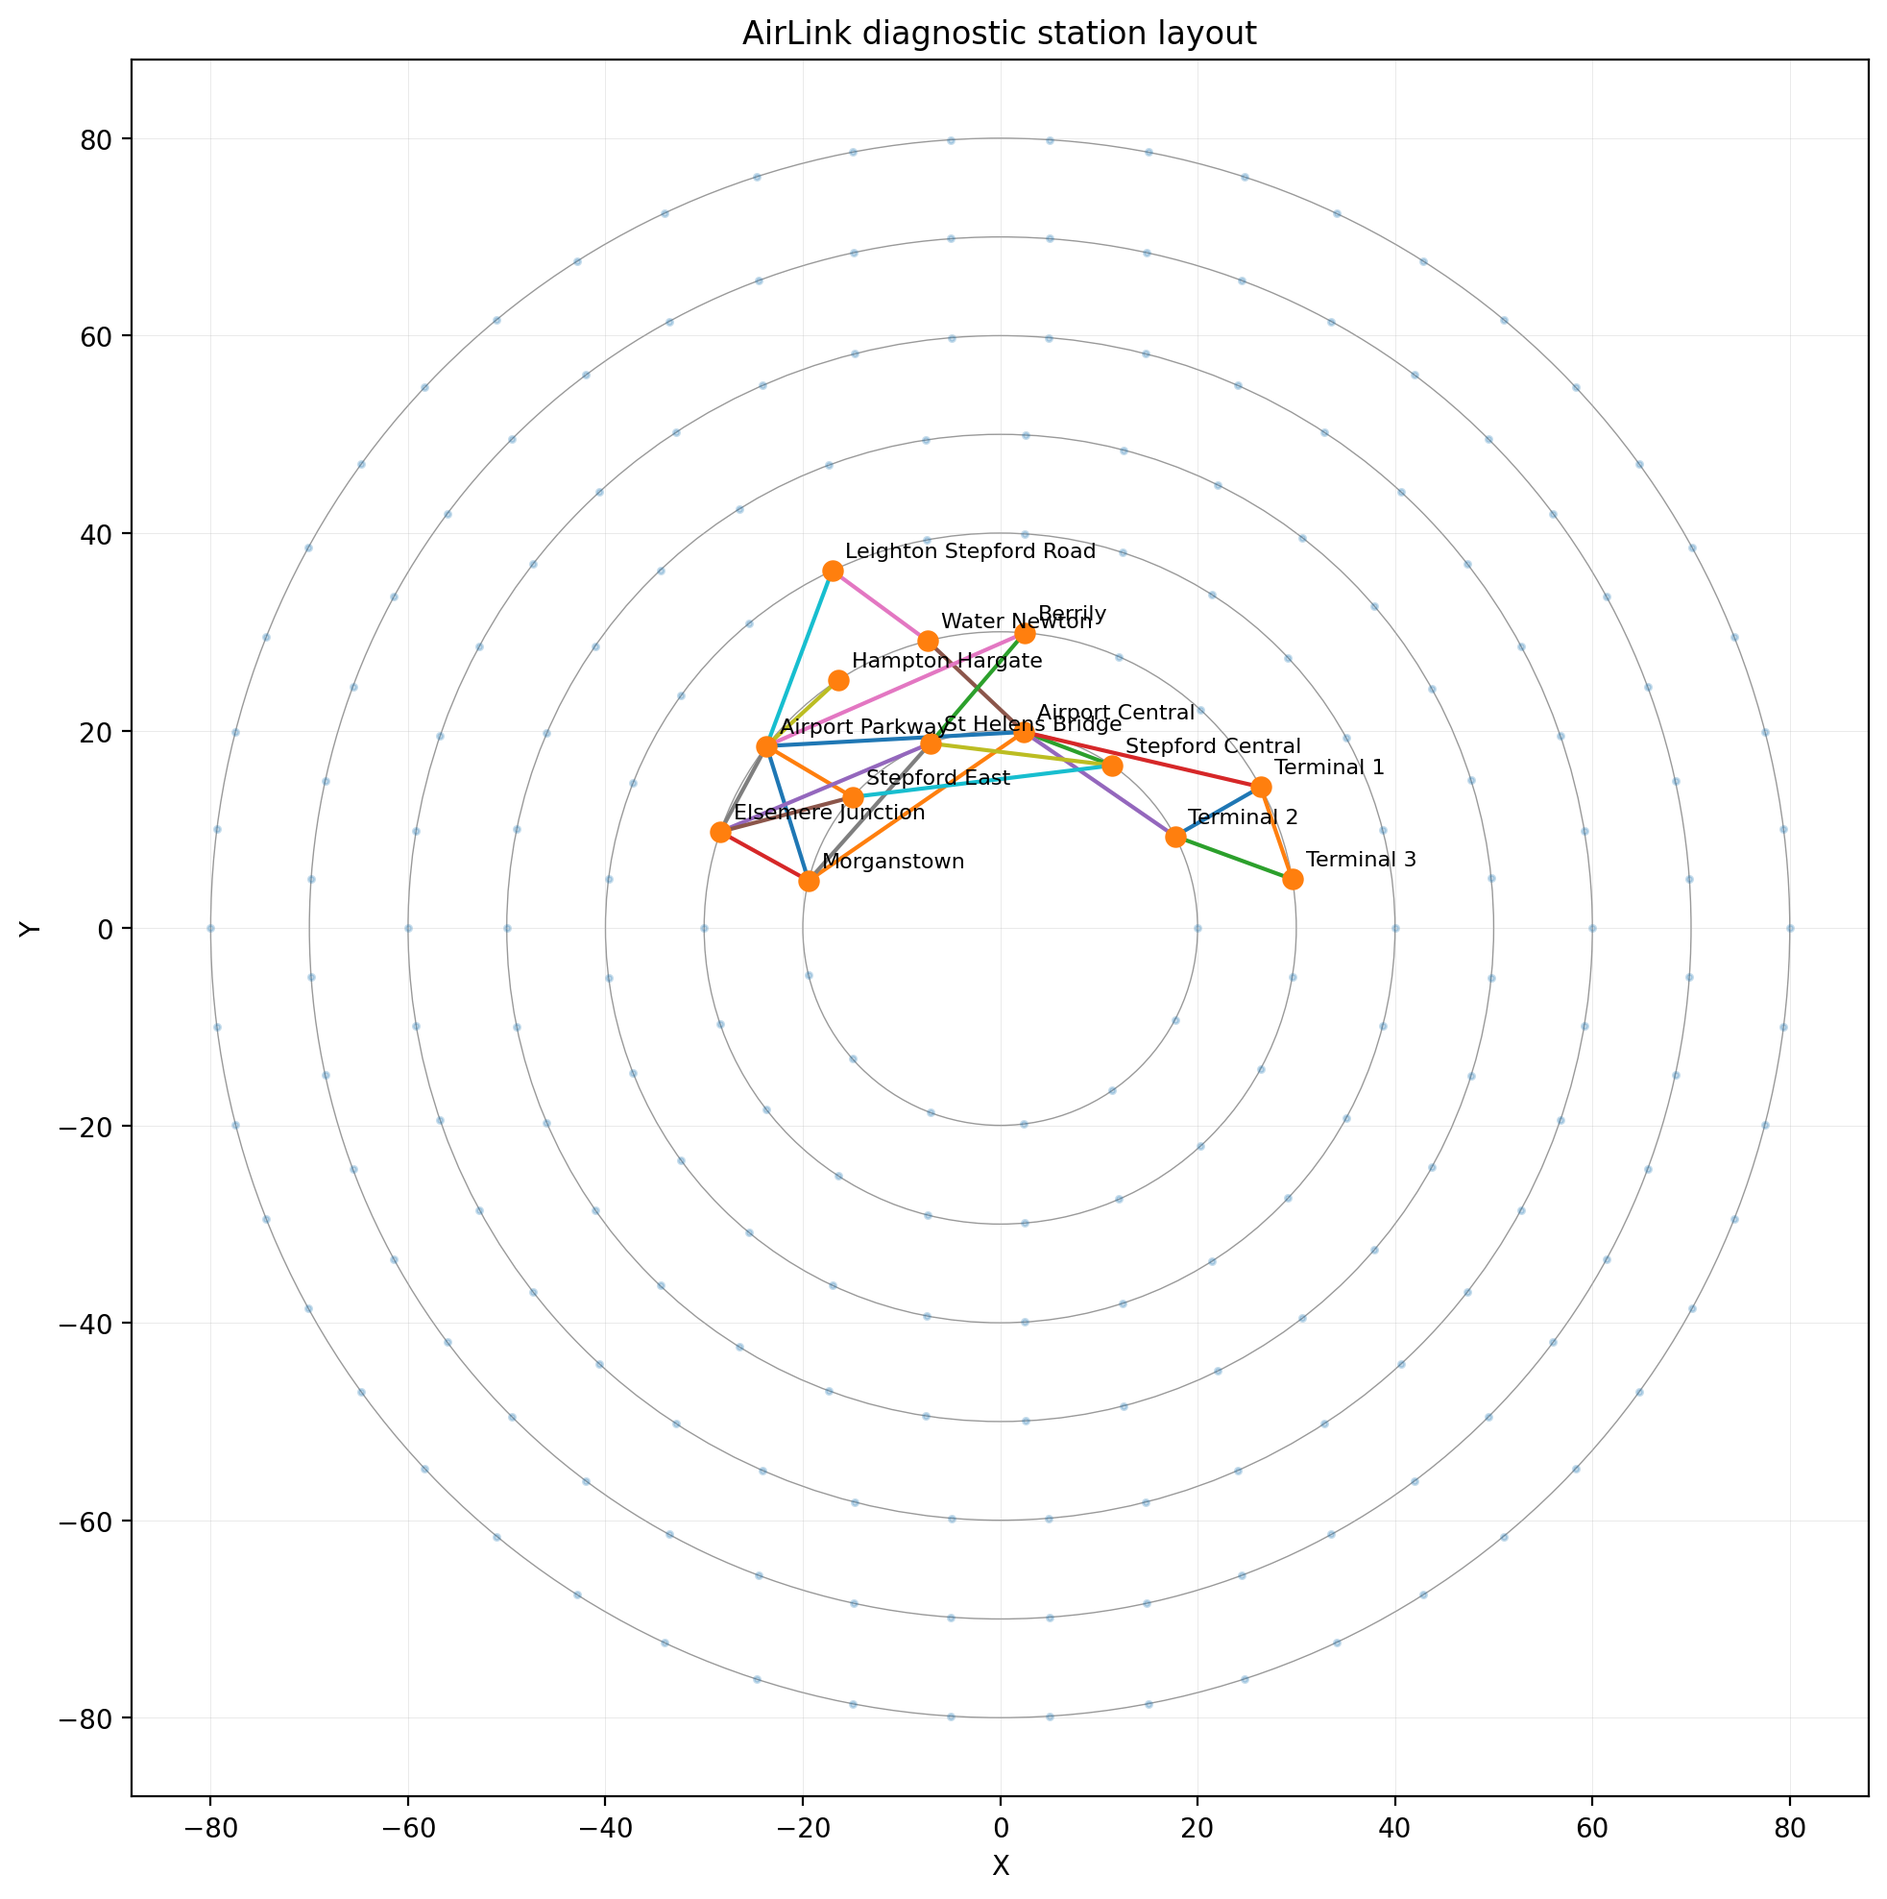
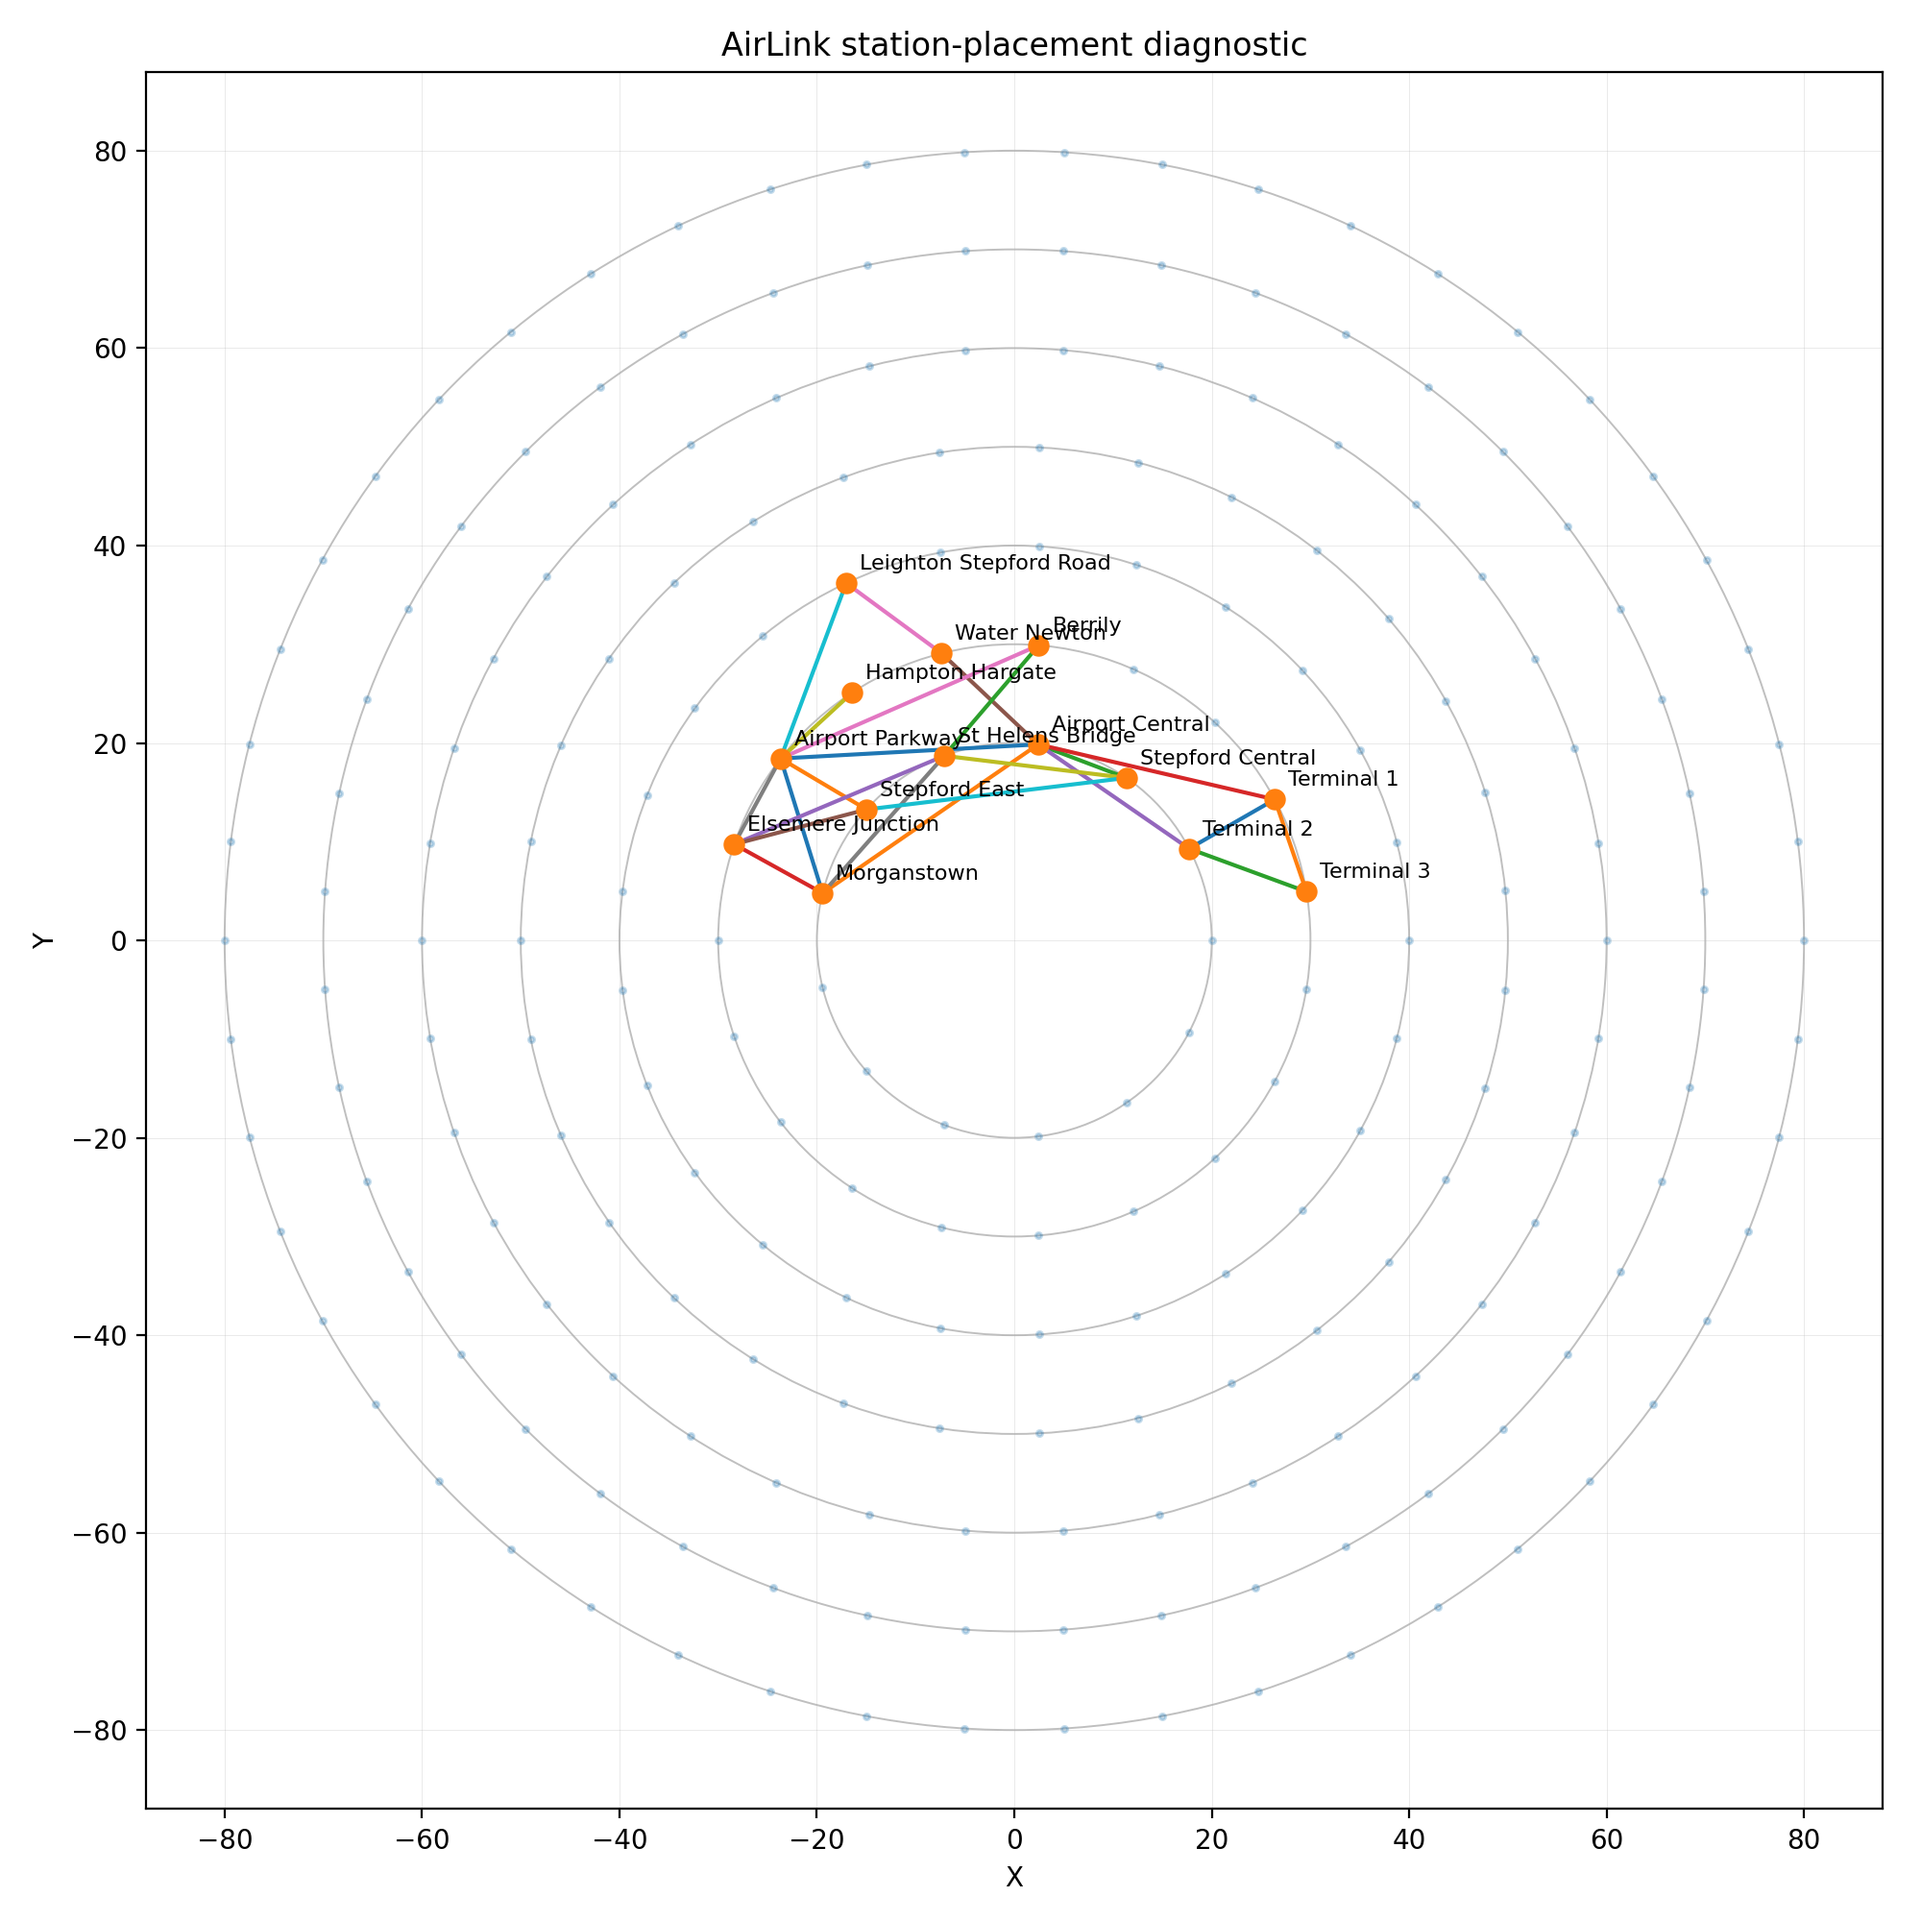
Refactored SimpleDiagnosticPlot into Defs

diff --git a/SimpleDiagnosticPlot.py b/SimpleDiagnosticPlot.py
@@ -12,6 +12,7 @@
 
 import json
 import matplotlib.pyplot as plt
+from pathlib import Path
 
 # Parameters
 OPERATOR = "AirLink"
@@ -30,51 +31,68 @@ station_pairs = load_json(STATION_PAIRS_PATH)
 potential_locations = load_json(POTENTIAL_LOCATIONS_PATH)
 assignments = load_json(ASSIGNMENTS_PATH)
 
-# Prepare data
-operator_edges = [(row["FirstStation"],row["SecondStation"]) for row in station_pairs if row["Operator"] == OPERATOR]
-assignment_lookup = {row["Station"]: row for row in assignments}
+def build_assignment_lookup(assignments):
+    return {row["Station"]: row for row in assignments}
 
-# Unique ring radii
-ring_radii = sorted({row["Radius"]  for row in potential_locations["Locations"]})
-
-# Create plot
-fig, ax = plt.subplots(figsize=(10, 10))
+def get_operator_edges(station_pairs, operator):
+    return [(row["FirstStation"], row["SecondStation"]) for row in station_pairs if row["Operator"] == operator]
 
 # Draw rings
-for radius in ring_radii:
-    ring = plt.Circle((0, 0), radius, fill=False, linewidth=0.5, alpha=0.4)
-    ax.add_patch(ring)
+def plot_rings(ax, locations):
+    radii = sorted({row["Radius"] for row in locations})
+    for radius in radii:
+        circle = plt.Circle((0, 0),radius,fill=False,linewidth=0.7,alpha=0.25)
+        ax.add_patch(circle)
 
 # Draw all potential locations
-if SHOW_ALL_LOCATIONS:
-    x_all = [row["X"] for row in potential_locations["Locations"] ]
-    y_all = [row["Y"] for row in potential_locations["Locations"] ]
-    ax.scatter( x_all, y_all, s=5, alpha=0.25)
+def plot_candidate_locations(ax, locations):
+    x = [row["X"] for row in locations]
+    y = [row["Y"] for row in locations]
+    ax.scatter( x, y, s=5, alpha=0.25)
 
 # Draw network edges
-for station1, station2 in operator_edges:
-    if (station1 not in assignment_lookup or station2 not in assignment_lookup ):
-        continue
-    loc1 = assignment_lookup[station1]
-    loc2 = assignment_lookup[station2]
-    ax.plot([loc1["X"], loc2["X"]], [loc1["Y"], loc2["Y"]], linewidth=1.5, zorder=2 )
+def plot_edges(ax, edges, assignment_lookup):
+    for station1, station2 in edges:
+        loc1 = assignment_lookup[station1]
+        loc2 = assignment_lookup[station2]
+        ax.plot([loc1["X"], loc2["X"]], [loc1["Y"], loc2["Y"]], linewidth=1.5, zorder=2 )
 
 # Draw stations
-station_x = [row["X"] for row in assignments]
-station_y = [row["Y"] for row in assignments]
-ax.scatter(station_x, station_y,s=50, zorder=3)
+def plot_stations(ax, assignments):
+    station_x = [row["X"] for row in assignments]
+    station_y = [row["Y"] for row in assignments]
+    ax.scatter(station_x, station_y,s=50, zorder=3)
 
-# Add labels
-for row in assignments:
-    ax.annotate(row["Station"], (row["X"], row["Y"]), xytext=(5, 5), textcoords="offset points", fontsize=8, zorder=4)
+    # Add labels
+    for row in assignments:
+        ax.annotate(row["Station"], (row["X"], row["Y"]), xytext=(5, 5), textcoords="offset points", fontsize=8, zorder=4)
+        
+def create_diagnostic_plot(assignments,station_pairs,potential_locations):
+    # Prepare data
+    assignment_lookup = build_assignment_lookup(assignments)
+    edges = [(a, b) for a, b in get_operator_edges(station_pairs, OPERATOR) if a in assignment_lookup  and b in assignment_lookup]
+    # Create plot
+    fig, ax = plt.subplots(figsize=(10, 10))
+    plot_rings(ax,potential_locations["Locations"] )
+    if SHOW_ALL_LOCATIONS:
+        plot_candidate_locations(ax,potential_locations["Locations"])
+    plot_edges(ax,edges,assignment_lookup )
+    plot_stations(ax,assignments)
+    
+    # Formatting
+    ax.set_aspect("equal", adjustable="box")
+    ax.set_title(f"{OPERATOR} station-placement diagnostic")
+    ax.set_xlabel("X")
+    ax.set_ylabel("Y")
+    ax.grid(True, linewidth=0.3, alpha=0.3)
+    fig.tight_layout()
+    Path(OUTPUT_PATH).parent.mkdir(parents=True,exist_ok=True )
+    fig.savefig(OUTPUT_PATH, dpi=200 )
+    plt.show()
 
-# Formatting
-ax.set_aspect("equal", adjustable="box")
-ax.set_title(f"{OPERATOR} diagnostic station layout")
-ax.set_xlabel("X")
-ax.set_ylabel("Y")
-ax.grid(True, linewidth=0.3, alpha=0.3)
+if __name__ == "__main__":
+    assignments = load_json(ASSIGNMENTS_PATH )
+    station_pairs = load_json(STATION_PAIRS_PATH )
+    potential_locations = load_json(POTENTIAL_LOCATIONS_PATH )
 
-plt.tight_layout()
-plt.savefig(OUTPUT_PATH, dpi=200, bbox_inches="tight")
-plt.show()
+    create_diagnostic_plot(assignments,station_pairs,potential_locations )
